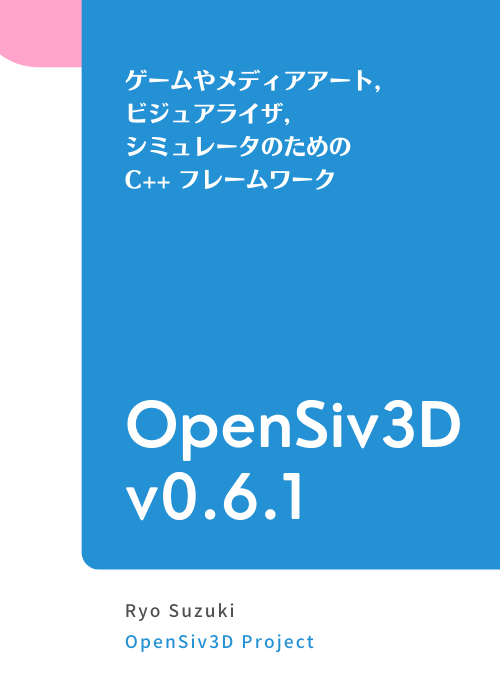
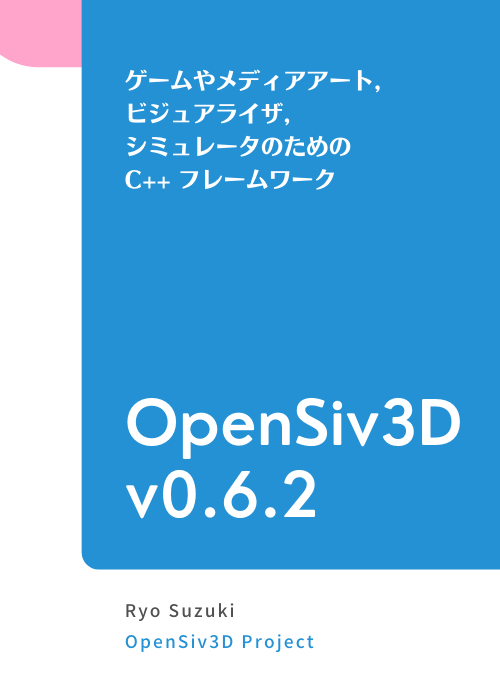
v0.6.1 -> v0.6.2

diff --git a/books/siv3d-documentation-en/course-quick-turorial.md b/books/siv3d-documentation-en/course-quick-turorial.md
@@ -773,7 +773,7 @@ void Main()
 ```
 
 ### Siv3D で使える絵文字の一覧
-Siv3D で使える絵文字は約 3,600 種類あります。絵文字を探すときは [emojipedia](https://emojipedia.org/) の Categories から調べるのが便利です。 OpenSiv3D v0.6.1 はオープンソースの絵文字フォント Noto Color Emoji (Android 12.0 版) を内蔵しているので、Siv3D アプリはどのプラットフォームでも同じ見た目の絵文字を表示できます。
+Siv3D で使える絵文字は約 3,600 種類あります。絵文字を探すときは [emojipedia](https://emojipedia.org/) の Categories から調べるのが便利です。 OpenSiv3D v0.6.2 はオープンソースの絵文字フォント Noto Color Emoji (Android 12.0 版) を内蔵しているので、Siv3D アプリはどのプラットフォームでも同じ見た目の絵文字を表示できます。
 
 
 ## 3.2 テクスチャを拡大縮小して描画する
@@ -955,7 +955,7 @@ void Main()
 ```
 
 ### 対応している画像フォーマット
-OpenSiv3D v0.6.1 では、9 種類の画像フォーマットの読み込みがサポートされています。
+OpenSiv3D v0.6.2 では、9 種類の画像フォーマットの読み込みがサポートされています。
 
 | フォーマット   | 拡張子             | 対応状況       |
 |----------|-----------------|:----------:|
@@ -1001,7 +1001,7 @@ void Main()
 ## 3.8 動画をテクスチャとして扱う
 シーンに動画を描きたいときは `VideoTexture` を作成し、`.draw()` または `.drawAt()` します。`VideoTexture` は `Texture` とほぼ同じインタフェースを持ち、動画ファイルを `Texture` のように扱えます。`VideoTexture` は毎フレーム `.advance()` を呼ぶことで再生位置を進めます。Siv3D はバックグラウンドのスレッドで動画の次のフレームの先読みを行っています。
 
-対応する動画フォーマットはプラットフォームによって異なりますが、MP4 ファイルは Windows, macOS, Linux でサポートされています。音声付き動画の音声を再生する方法は OpenSiv3D v0.6.1 では用意されていません。映像のみです。
+対応する動画フォーマットはプラットフォームによって異なりますが、MP4 ファイルは Windows, macOS, Linux でサポートされています。音声付き動画の音声を再生する方法は OpenSiv3D v0.6.2 では用意されていません。映像のみです。
 
 https://youtu.be/B4WPEdA4vMI
 ```cpp

diff --git a/books/siv3d-documentation/course-quick-turorial.md b/books/siv3d-documentation/course-quick-turorial.md
@@ -773,7 +773,7 @@ void Main()
 ```
 
 ### Siv3D で使える絵文字の一覧
-Siv3D で使える絵文字は約 3,600 種類あります。絵文字を探すときは [emojipedia](https://emojipedia.org/) の Categories から調べるのが便利です。 OpenSiv3D v0.6.1 はオープンソースの絵文字フォント Noto Color Emoji (Android 12.0 版) を内蔵しているので、Siv3D アプリはどのプラットフォームでも同じ見た目の絵文字を表示できます。
+Siv3D で使える絵文字は約 3,600 種類あります。絵文字を探すときは [emojipedia](https://emojipedia.org/) の Categories から調べるのが便利です。 OpenSiv3D v0.6.2 はオープンソースの絵文字フォント Noto Color Emoji (Android 12.0 版) を内蔵しているので、Siv3D アプリはどのプラットフォームでも同じ見た目の絵文字を表示できます。
 
 
 ## 3.2 テクスチャを拡大縮小して描画する
@@ -955,7 +955,7 @@ void Main()
 ```
 
 ### 対応している画像フォーマット
-OpenSiv3D v0.6.1 では、9 種類の画像フォーマットの読み込みがサポートされています。
+OpenSiv3D v0.6.2 では、9 種類の画像フォーマットの読み込みがサポートされています。
 
 | フォーマット   | 拡張子             | 対応状況       |
 |----------|-----------------|:----------:|
@@ -1001,7 +1001,7 @@ void Main()
 ## 3.8 動画をテクスチャとして扱う
 シーンに動画を描きたいときは `VideoTexture` を作成し、`.draw()` または `.drawAt()` します。`VideoTexture` は `Texture` とほぼ同じインタフェースを持ち、動画ファイルを `Texture` のように扱えます。`VideoTexture` は毎フレーム `.advance()` を呼ぶことで再生位置を進めます。Siv3D はバックグラウンドのスレッドで動画の次のフレームの先読みを行っています。
 
-対応する動画フォーマットはプラットフォームによって異なりますが、MP4 ファイルは Windows, macOS, Linux でサポートされています。音声付き動画の音声を再生する方法は OpenSiv3D v0.6.1 では用意されていません。映像のみです。
+対応する動画フォーマットはプラットフォームによって異なりますが、MP4 ファイルは Windows, macOS, Linux でサポートされています。音声付き動画の音声を再生する方法は OpenSiv3D v0.6.2 では用意されていません。映像のみです。
 
 https://youtu.be/B4WPEdA4vMI
 ```cpp

diff --git a/books/siv3d-documentation-en/tutorial-audio.md b/books/siv3d-documentation-en/tutorial-audio.md
@@ -32,7 +32,7 @@ void Main()
 ```
 
 ### 対応している音声フォーマット
-OpenSiv3D v0.6.1 では、次のような音声フォーマットの読み込みがサポートされています。一部の音声フォーマットは OS によって対応状況が異なります。
+OpenSiv3D v0.6.2 では、次のような音声フォーマットの読み込みがサポートされています。一部の音声フォーマットは OS によって対応状況が異なります。
 
 | フォーマット    | 拡張子                | Windows | macOS | Linux | Web |
 |-----------|--------------------|:-------:|:-----:|:-----:|:---:|
@@ -666,7 +666,7 @@ void Main()
 |`GlobalAudio::BusSetReverbFilter()`|  リバーブフィルタを設定します |
 |`GlobalAudio::BusSetPitchShiftFilter()`|  ピッチシフトフィルタを設定します |
 
-OpenSiv3D v0.6.1 Web 版では、ピッチシフトフィルタを利用できません。`GlobalAudio::SupportsPitchShift()` を使うと、現在の実行環境でピッチシフトフィルタを利用できるかを取得できます。
+OpenSiv3D v0.6.2 Web 版では、ピッチシフトフィルタを利用できません。`GlobalAudio::SupportsPitchShift()` を使うと、現在の実行環境でピッチシフトフィルタを利用できるかを取得できます。
 
 次のサンプルは、オーディオフィルタ機能のデモです。これまでの章では扱っていない、いくつかの高度な機能を含んでいます。「Open audio file」をクリックすると、パソコンに保存されているオーディオファイルをオープンできます。
 

diff --git a/books/siv3d-documentation/tutorial-audio.md b/books/siv3d-documentation/tutorial-audio.md
@@ -32,7 +32,7 @@ void Main()
 ```
 
 ### 対応している音声フォーマット
-OpenSiv3D v0.6.1 では、次のような音声フォーマットの読み込みがサポートされています。一部の音声フォーマットは OS によって対応状況が異なります。
+OpenSiv3D v0.6.2 では、次のような音声フォーマットの読み込みがサポートされています。一部の音声フォーマットは OS によって対応状況が異なります。
 
 | フォーマット    | 拡張子                | Windows | macOS | Linux | Web |
 |-----------|--------------------|:-------:|:-----:|:-----:|:---:|
@@ -666,7 +666,7 @@ void Main()
 |`GlobalAudio::BusSetReverbFilter()`|  リバーブフィルタを設定します |
 |`GlobalAudio::BusSetPitchShiftFilter()`|  ピッチシフトフィルタを設定します |
 
-OpenSiv3D v0.6.1 Web 版では、ピッチシフトフィルタを利用できません。`GlobalAudio::SupportsPitchShift()` を使うと、現在の実行環境でピッチシフトフィルタを利用できるかを取得できます。
+OpenSiv3D v0.6.2 Web 版では、ピッチシフトフィルタを利用できません。`GlobalAudio::SupportsPitchShift()` を使うと、現在の実行環境でピッチシフトフィルタを利用できるかを取得できます。
 
 次のサンプルは、オーディオフィルタ機能のデモです。これまでの章では扱っていない、いくつかの高度な機能を含んでいます。「Open audio file」をクリックすると、パソコンに保存されているオーディオファイルをオープンできます。
 

diff --git a/books/siv3d-documentation/whats-new.md b/books/siv3d-documentation/whats-new.md
@@ -3,6 +3,17 @@ title: "リリースノート"
 free: true
 ---
 
+# v0.6.2
+
+## パフォーマンス向上
+- Windows 版でアプリケーションの起動を高速化しました ([#650](https://github.com/Siv3D/OpenSiv3D/issues/650), [#651](https://github.com/Siv3D/OpenSiv3D/issues/651))
+- メモリ / VRAM の消費量を削減しました ([#648](https://github.com/Siv3D/OpenSiv3D/issues/648))
+
+## 不具合・バグ修正
+- Windows 版で重い描画処理を行ったときに v0.4.3 よりもフレームレートが低下することがあった問題を修正しました ([#652](https://github.com/Siv3D/OpenSiv3D/issues/652))
+- Windows 版、プロジェクトテンプレートの stdafx.h を Header Files フィルタに移動しました ([#653](https://github.com/Siv3D/OpenSiv3D/issues/653))
+
+
 # v0.6.1
 
 ## 新機能
@@ -177,6 +188,7 @@ free: true
 - `Image` の最大サイズを 1 辺 8192px → 16384px に拡張しました
 - ConstantBuffer サイズ 16 × N バイト制約が撤廃されました
 - 並列実行に関する機能は `SIV3D_CONCURRENT` マクロを定義しなくても使えるようになりました
+- High DPI ウィンドウがデフォルトになり、`SIV3D_WINDOWS_HIGH_DPI` マクロは廃止されました
 - (執筆中）
 - 
 - 
@@ -198,6 +210,7 @@ free: true
 - Windows の `MakeDragDrop()` の不具合を修正しました
 - PPM 画像読み込みの不具合を修正しました
 - プラットフォームごとの乱数の再現性の改善しました
+- QR コード生成の不具合を修正しました
 - (執筆中）
 - 
 - 

diff --git a/books/siv3d-documentation-en/whats-new.md b/books/siv3d-documentation-en/whats-new.md
@@ -3,6 +3,17 @@ title: "Release Notes"
 free: true
 ---
 
+# v0.6.2
+
+## パフォーマンス向上
+- Windows 版でアプリケーションの起動を高速化しました ([#650](https://github.com/Siv3D/OpenSiv3D/issues/650), [#651](https://github.com/Siv3D/OpenSiv3D/issues/651))
+- メモリ / VRAM の消費量を削減しました ([#648](https://github.com/Siv3D/OpenSiv3D/issues/648))
+
+## 不具合・バグ修正
+- Windows 版で重い描画処理を行ったときに v0.4.3 よりもフレームレートが低下することがあった問題を修正しました ([#652](https://github.com/Siv3D/OpenSiv3D/issues/652))
+- Windows 版、プロジェクトテンプレートの stdafx.h を Header Files フィルタに移動しました ([#653](https://github.com/Siv3D/OpenSiv3D/issues/653))
+
+
 # v0.6.1
 
 ## 新機能
@@ -177,6 +188,7 @@ free: true
 - `Image` の最大サイズを 1 辺 8192px → 16384px に拡張しました
 - ConstantBuffer サイズ 16 × N バイト制約が撤廃されました
 - 並列実行に関する機能は `SIV3D_CONCURRENT` マクロを定義しなくても使えるようになりました
+- High DPI ウィンドウがデフォルトになり、`SIV3D_WINDOWS_HIGH_DPI` マクロは廃止されました
 - (執筆中）
 - 
 - 
@@ -198,6 +210,7 @@ free: true
 - Windows の `MakeDragDrop()` の不具合を修正しました
 - PPM 画像読み込みの不具合を修正しました
 - プラットフォームごとの乱数の再現性の改善しました
+- QR コード生成の不具合を修正しました
 - (執筆中）
 - 
 - 

diff --git a/books/siv3d-documentation-en/tutorial-texture.md b/books/siv3d-documentation-en/tutorial-texture.md
@@ -71,7 +71,7 @@ void Main()
 ```
 
 ### Siv3D で使える絵文字の一覧
-Siv3D で使える絵文字は約 3,600 種類あります。絵文字を探すときは [emojipedia](https://emojipedia.org/) の Categories から調べるのが便利です。 OpenSiv3D v0.6.1 はオープンソースの絵文字フォント Noto Color Emoji (Android 12.0 版) を内蔵しているので、Siv3D アプリはどのプラットフォームでも同じ見た目の絵文字を表示できます。
+Siv3D で使える絵文字は約 3,600 種類あります。絵文字を探すときは [emojipedia](https://emojipedia.org/) の Categories から調べるのが便利です。 OpenSiv3D v0.6.2 はオープンソースの絵文字フォント Noto Color Emoji (Android 12.0 版) を内蔵しているので、Siv3D アプリはどのプラットフォームでも同じ見た目の絵文字を表示できます。
 
 ## 8.2 テクスチャを拡大縮小して描画する
 
@@ -249,7 +249,7 @@ void Main()
 ```
 
 ### 対応している画像フォーマット
-OpenSiv3D v0.6.1 では、9 種類の画像フォーマットの読み込みがサポートされています。
+OpenSiv3D v0.6.2 では、9 種類の画像フォーマットの読み込みがサポートされています。
 
 | フォーマット   | 拡張子             | 対応状況       |
 |----------|-----------------|:----------:|

diff --git a/books/siv3d-documentation/tutorial-texture.md b/books/siv3d-documentation/tutorial-texture.md
@@ -71,7 +71,7 @@ void Main()
 ```
 
 ### Siv3D で使える絵文字の一覧
-Siv3D で使える絵文字は約 3,600 種類あります。絵文字を探すときは [emojipedia](https://emojipedia.org/) の Categories から調べるのが便利です。 OpenSiv3D v0.6.1 はオープンソースの絵文字フォント Noto Color Emoji (Android 12.0 版) を内蔵しているので、Siv3D アプリはどのプラットフォームでも同じ見た目の絵文字を表示できます。
+Siv3D で使える絵文字は約 3,600 種類あります。絵文字を探すときは [emojipedia](https://emojipedia.org/) の Categories から調べるのが便利です。 OpenSiv3D v0.6.2 はオープンソースの絵文字フォント Noto Color Emoji (Android 12.0 版) を内蔵しているので、Siv3D アプリはどのプラットフォームでも同じ見た目の絵文字を表示できます。
 
 ## 8.2 テクスチャを拡大縮小して描画する
 
@@ -249,7 +249,7 @@ void Main()
 ```
 
 ### 対応している画像フォーマット
-OpenSiv3D v0.6.1 では、9 種類の画像フォーマットの読み込みがサポートされています。
+OpenSiv3D v0.6.2 では、9 種類の画像フォーマットの読み込みがサポートされています。
 
 | フォーマット   | 拡張子             | 対応状況       |
 |----------|-----------------|:----------:|

diff --git a/books/siv3d-documentation-en/setup.md b/books/siv3d-documentation-en/setup.md
@@ -7,7 +7,7 @@ free: true
 
 ## 1.1 SDK のインストール
 
-- **[OpenSiv3D v0.6.1 Installer for Windows Desktop](https://siv3d.jp/downloads/Siv3D/OpenSiv3D_0.6.1_Installer.exe)** をダウンロードして実行します
+- **[OpenSiv3D v0.6.2 Installer for Windows Desktop](https://siv3d.jp/downloads/Siv3D/OpenSiv3D_0.6.2_Installer.exe)** をダウンロードして実行します
 - インストーラが自動的に以下のことを行います
   - SDK のコピー（デフォルトではドキュメントフォルダ）
   - SDK のパスへのユーザ環境変数の設定
@@ -32,7 +32,7 @@ https://www.youtube.com/watch?v=O0XtvulXSOk
 
 ## 2.1 プロジェクトテンプレートのダウンロード
 
-- **[OpenSiv3D v0.6.1 Project Templates for macOS](https://siv3d.jp/downloads/Siv3D/siv3d_v0.6.1_macOS.zip)** をダウンロードしてファイルを展開します
+- **[OpenSiv3D v0.6.2 Project Templates for macOS](https://siv3d.jp/downloads/Siv3D/siv3d_v0.6.2_macOS.zip)** をダウンロードしてファイルを展開します
 
 - macOS Catalina 以降の場合、プログラム実行時に、毎回ファイルアクセス許可のダイアログが出現するのを防ぐため、`ユーザ/デスクトップ` や `ユーザ/ダウンロード` フォルダではなく、`ユーザ/アプリケーション` フォルダへ移動させます
 

diff --git a/books/siv3d-documentation/setup.md b/books/siv3d-documentation/setup.md
@@ -7,7 +7,7 @@ free: true
 
 ## 1.1 SDK のインストール
 
-- **[OpenSiv3D v0.6.1 Installer for Windows Desktop](https://siv3d.jp/downloads/Siv3D/OpenSiv3D_0.6.1_Installer.exe)** をダウンロードして実行します
+- **[OpenSiv3D v0.6.2 Installer for Windows Desktop](https://siv3d.jp/downloads/Siv3D/OpenSiv3D_0.6.2_Installer.exe)** をダウンロードして実行します
 - インストーラが自動的に以下のことを行います
   - SDK のコピー（デフォルトではドキュメントフォルダ）
   - SDK のパスへのユーザ環境変数の設定
@@ -32,7 +32,7 @@ https://www.youtube.com/watch?v=O0XtvulXSOk
 
 ## 2.1 プロジェクトテンプレートのダウンロード
 
-- **[OpenSiv3D v0.6.1 Project Templates for macOS](https://siv3d.jp/downloads/Siv3D/siv3d_v0.6.1_macOS.zip)** をダウンロードしてファイルを展開します
+- **[OpenSiv3D v0.6.2 Project Templates for macOS](https://siv3d.jp/downloads/Siv3D/siv3d_v0.6.2_macOS.zip)** をダウンロードしてファイルを展開します
 
 - macOS Catalina 以降の場合、プログラム実行時に、毎回ファイルアクセス許可のダイアログが出現するのを防ぐため、`ユーザ/デスクトップ` や `ユーザ/ダウンロード` フォルダではなく、`ユーザ/アプリケーション` フォルダへ移動させます
 

diff --git a/books/siv3d-documentation-en/tutorial-scene.md b/books/siv3d-documentation-en/tutorial-scene.md
@@ -22,7 +22,7 @@ Siv3D プログラムにおける画面表示を理解するには、「3 つの
 #### ② 仮想ウィンドウサイズ
 ユーザのデスクトップ上における、ウィンドウの**クライアント領域**（タイトルバーやフレームを除く、描画が行われる領域）の見かけのサイズです。`Window::GetState().virtualSize` で取得できます。この仮想ウィンドウサイズに OS 設定の拡大縮小倍率 (150%, 200% など) を乗算したものが、後述する実ウィンドウサイズになります。
 
-※ Linux 版では OS 設定の拡大縮小倍率に未対応で、仮想ウィンドウサイズと実ウィンドウサイズは同じになります（OpenSiv3D v0.6.1 現在）
+※ Linux 版では OS 設定の拡大縮小倍率に未対応で、仮想ウィンドウサイズと実ウィンドウサイズは同じになります（OpenSiv3D v0.6.2 現在）
 
 #### ③ 実ウィンドウサイズ（フレームバッファサイズ）
 モニタ上のピクセル数で計測した、ウィンドウのクライアント領域のサイズです。`Window::GetState().frameBufferSize` で取得できます。

diff --git a/books/siv3d-documentation/tutorial-scene.md b/books/siv3d-documentation/tutorial-scene.md
@@ -22,7 +22,7 @@ Siv3D プログラムにおける画面表示を理解するには、「3 つの
 #### ② 仮想ウィンドウサイズ
 ユーザのデスクトップ上における、ウィンドウの**クライアント領域**（タイトルバーやフレームを除く、描画が行われる領域）の見かけのサイズです。`Window::GetState().virtualSize` で取得できます。この仮想ウィンドウサイズに OS 設定の拡大縮小倍率 (150%, 200% など) を乗算したものが、後述する実ウィンドウサイズになります。
 
-※ Linux 版では OS 設定の拡大縮小倍率に未対応で、仮想ウィンドウサイズと実ウィンドウサイズは同じになります（OpenSiv3D v0.6.1 現在）
+※ Linux 版では OS 設定の拡大縮小倍率に未対応で、仮想ウィンドウサイズと実ウィンドウサイズは同じになります（OpenSiv3D v0.6.2 現在）
 
 #### ③ 実ウィンドウサイズ（フレームバッファサイズ）
 モニタ上のピクセル数で計測した、ウィンドウのクライアント領域のサイズです。`Window::GetState().frameBufferSize` で取得できます。
